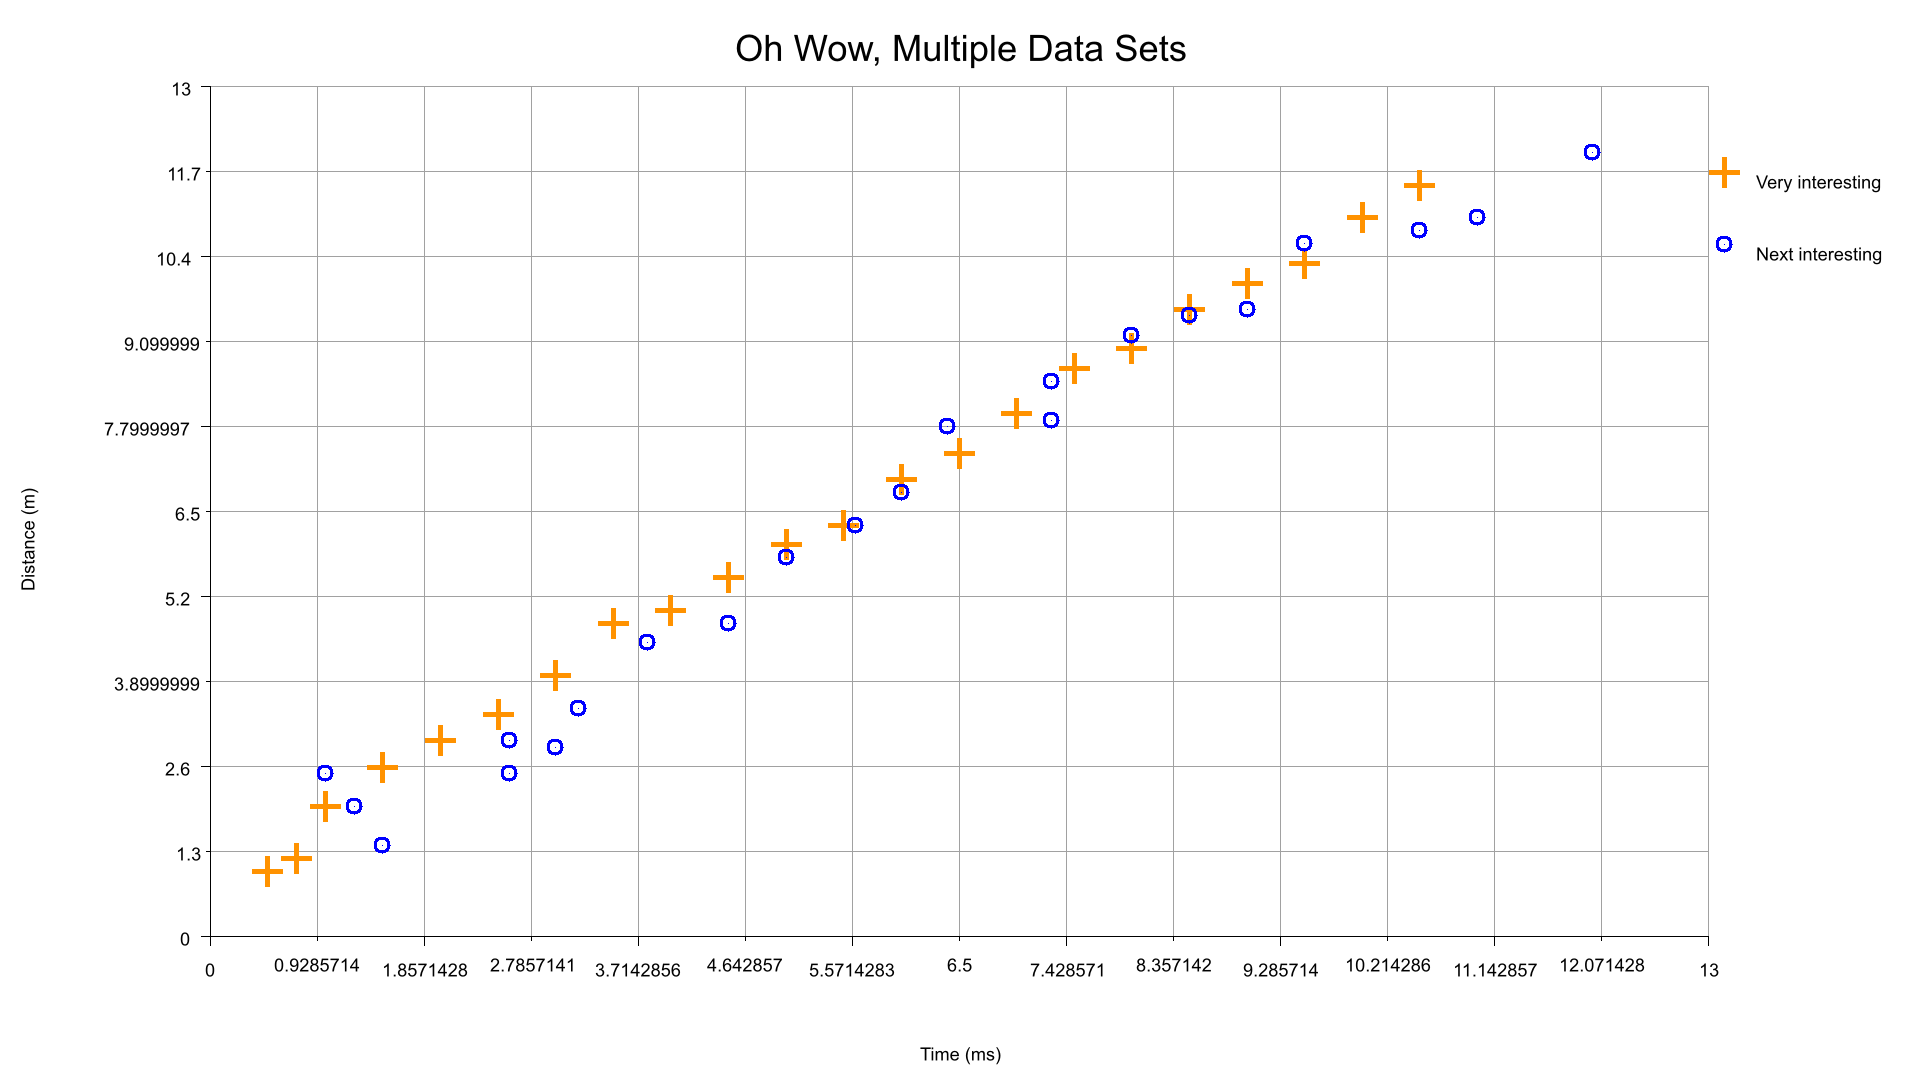
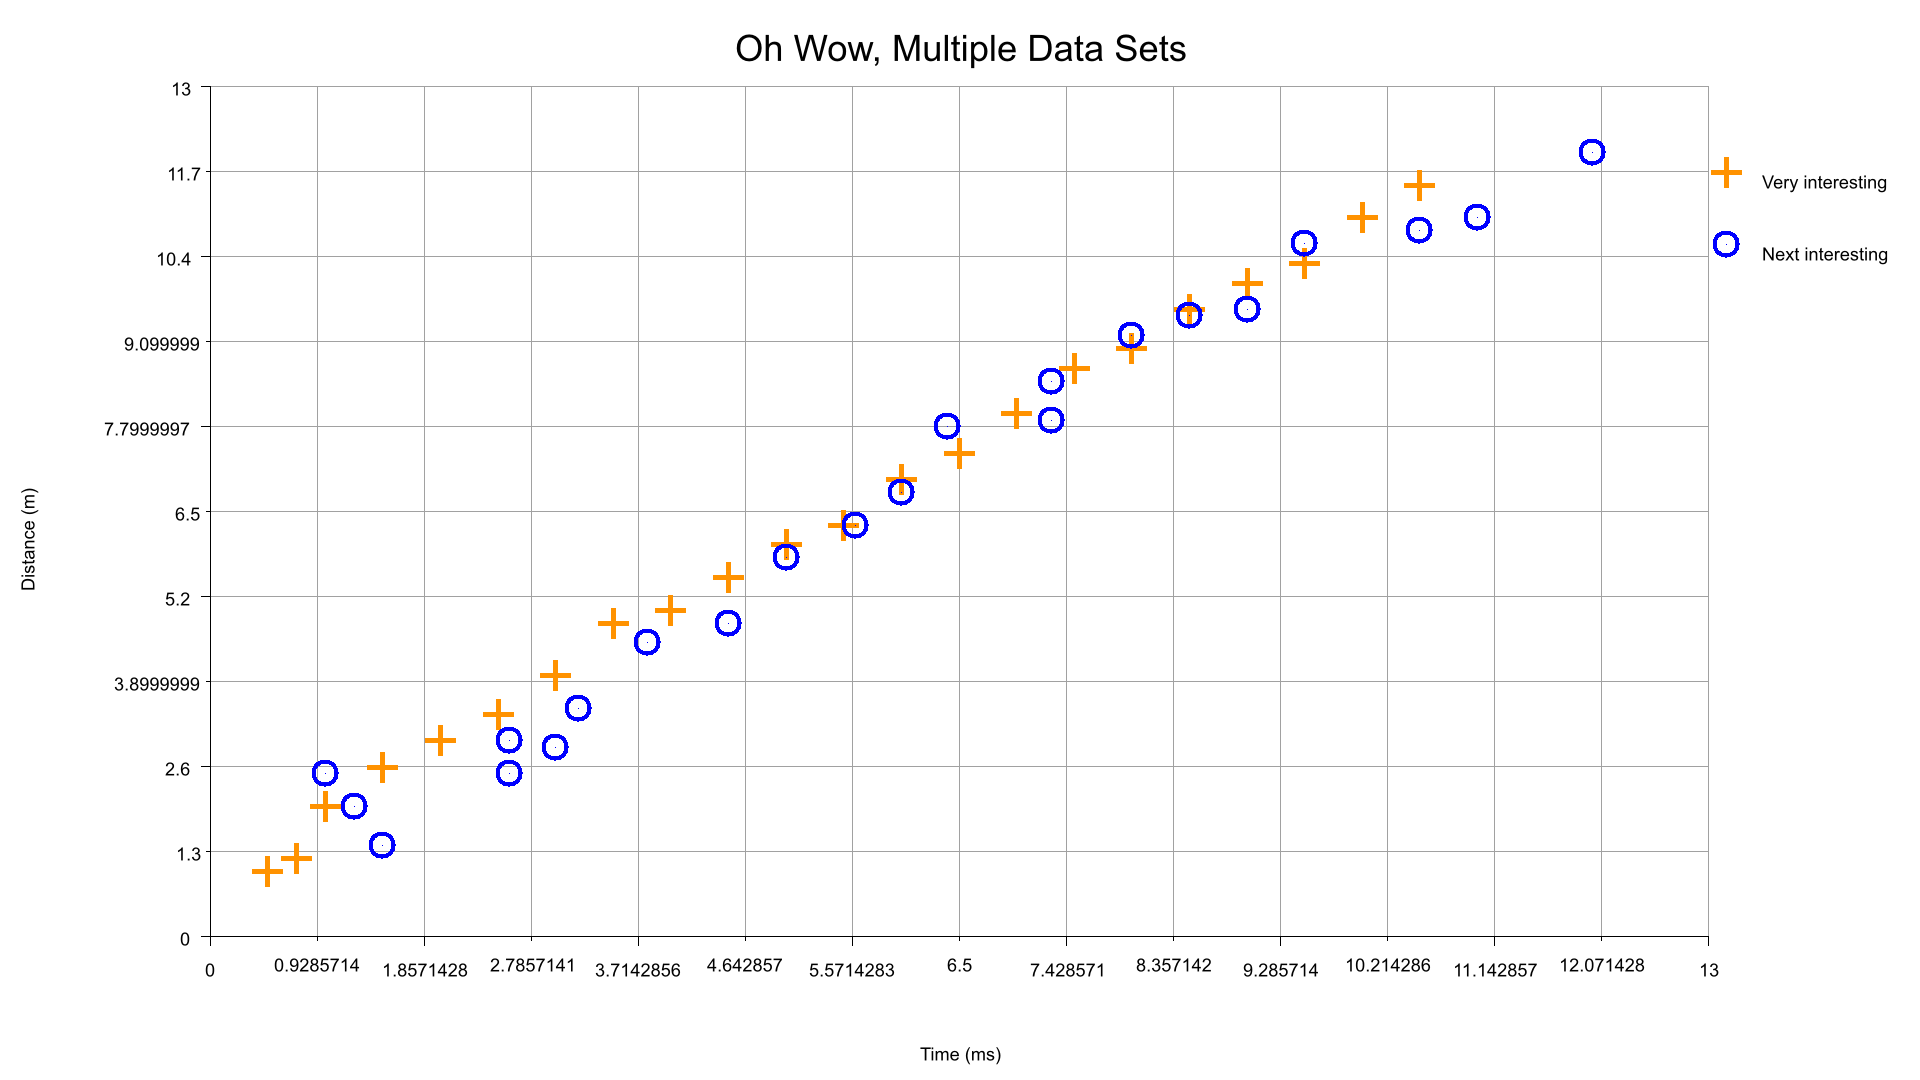
fix: more reliably calculate the pixels making up the circle symbol

diff --git a/src/canvas/plot.rs b/src/canvas/plot.rs
@@ -60,18 +60,17 @@ impl DataSymbol {
 			}
 			DataSymbol::Circle => {
 				pixel_coords.push(origin);
-				let todo = if (radius + 1) & 1 == 1 {
-					radius + 2
-				}else {
-					radius + 1
-				};
-				let mut angles = Vec::new();
-				let segments: u32 = 124;
-				for i in 0..segments {angles.push((2.0 * PI/segments as f32) * i as f32)};
-				for angle in angles.iter() {
-					for n in 0..=thickness {
-						let y = angle.sin() * (radius + 1 + n) as f32;
-						let x = angle.cos() * (radius + 1 + n) as f32;
+				for n in 0..=thickness {
+					// Ensure even radius of circle
+					let r = if (radius + 1) & 1 == 1 {
+						radius + 2 + n
+					}else {
+						radius + 1 + n
+					};
+					let scale_factor: u32 = 1000;
+					for angle_deg in 0..(360 * scale_factor) {
+						let y = (angle_deg as f32 / scale_factor as f32).to_radians().sin() * r as f32;
+						let x = (angle_deg as f32 / scale_factor as f32).to_radians().cos() * r as f32;
 						let delta_x = origin.0 as f32 + x;
 						let delta_y = origin.1 as f32 + y;
 						pixel_coords.push((delta_x as u32, delta_y as u32));
@@ -99,9 +98,9 @@ impl DataSymbol {
 				// Ensure side_length is even otherwise the triangle will have an offset
 				// Initial (radius + 1) ensures that if a user sets radius to zero something will still be drawn
 				let side_length: f32 = if (radius + 1) & 1 == 1 {
-					((radius + 2) as f32 + float_n) * 2.0
+					(radius + 2) as f32 + float_n
 				} else {
-					((radius + 1) as f32 + float_n) * 2.0
+					(radius + 1) as f32 + float_n
 				};
 				let height: f32 = side_length * (3.0_f32.sqrt() / 2.0);
 				let incircle_radius: f32 = side_length / (2.0 * 3.0_f32.sqrt());

diff --git a/src/canvas/legend.rs b/src/canvas/legend.rs
@@ -30,7 +30,7 @@ pub fn build_legend(
 	let items = fields.len();
 	// As symbols have different radii we want to find the maximum so we can space out the legend elements
 	// with the same offset
-	let max_radius: u32 = fields.iter().max_by(|a, b| a.symbol_radius.cmp(&b.symbol_radius)).unwrap().symbol_radius;
+	let max_radius: u32 = fields.iter().max_by(|a, b| a.symbol_radius.cmp(&b.symbol_radius)).unwrap().symbol_radius + 2;
 	for i in 0..items {
 		let field = &fields[i];
 		trace!("Legend field {:?}", field);
